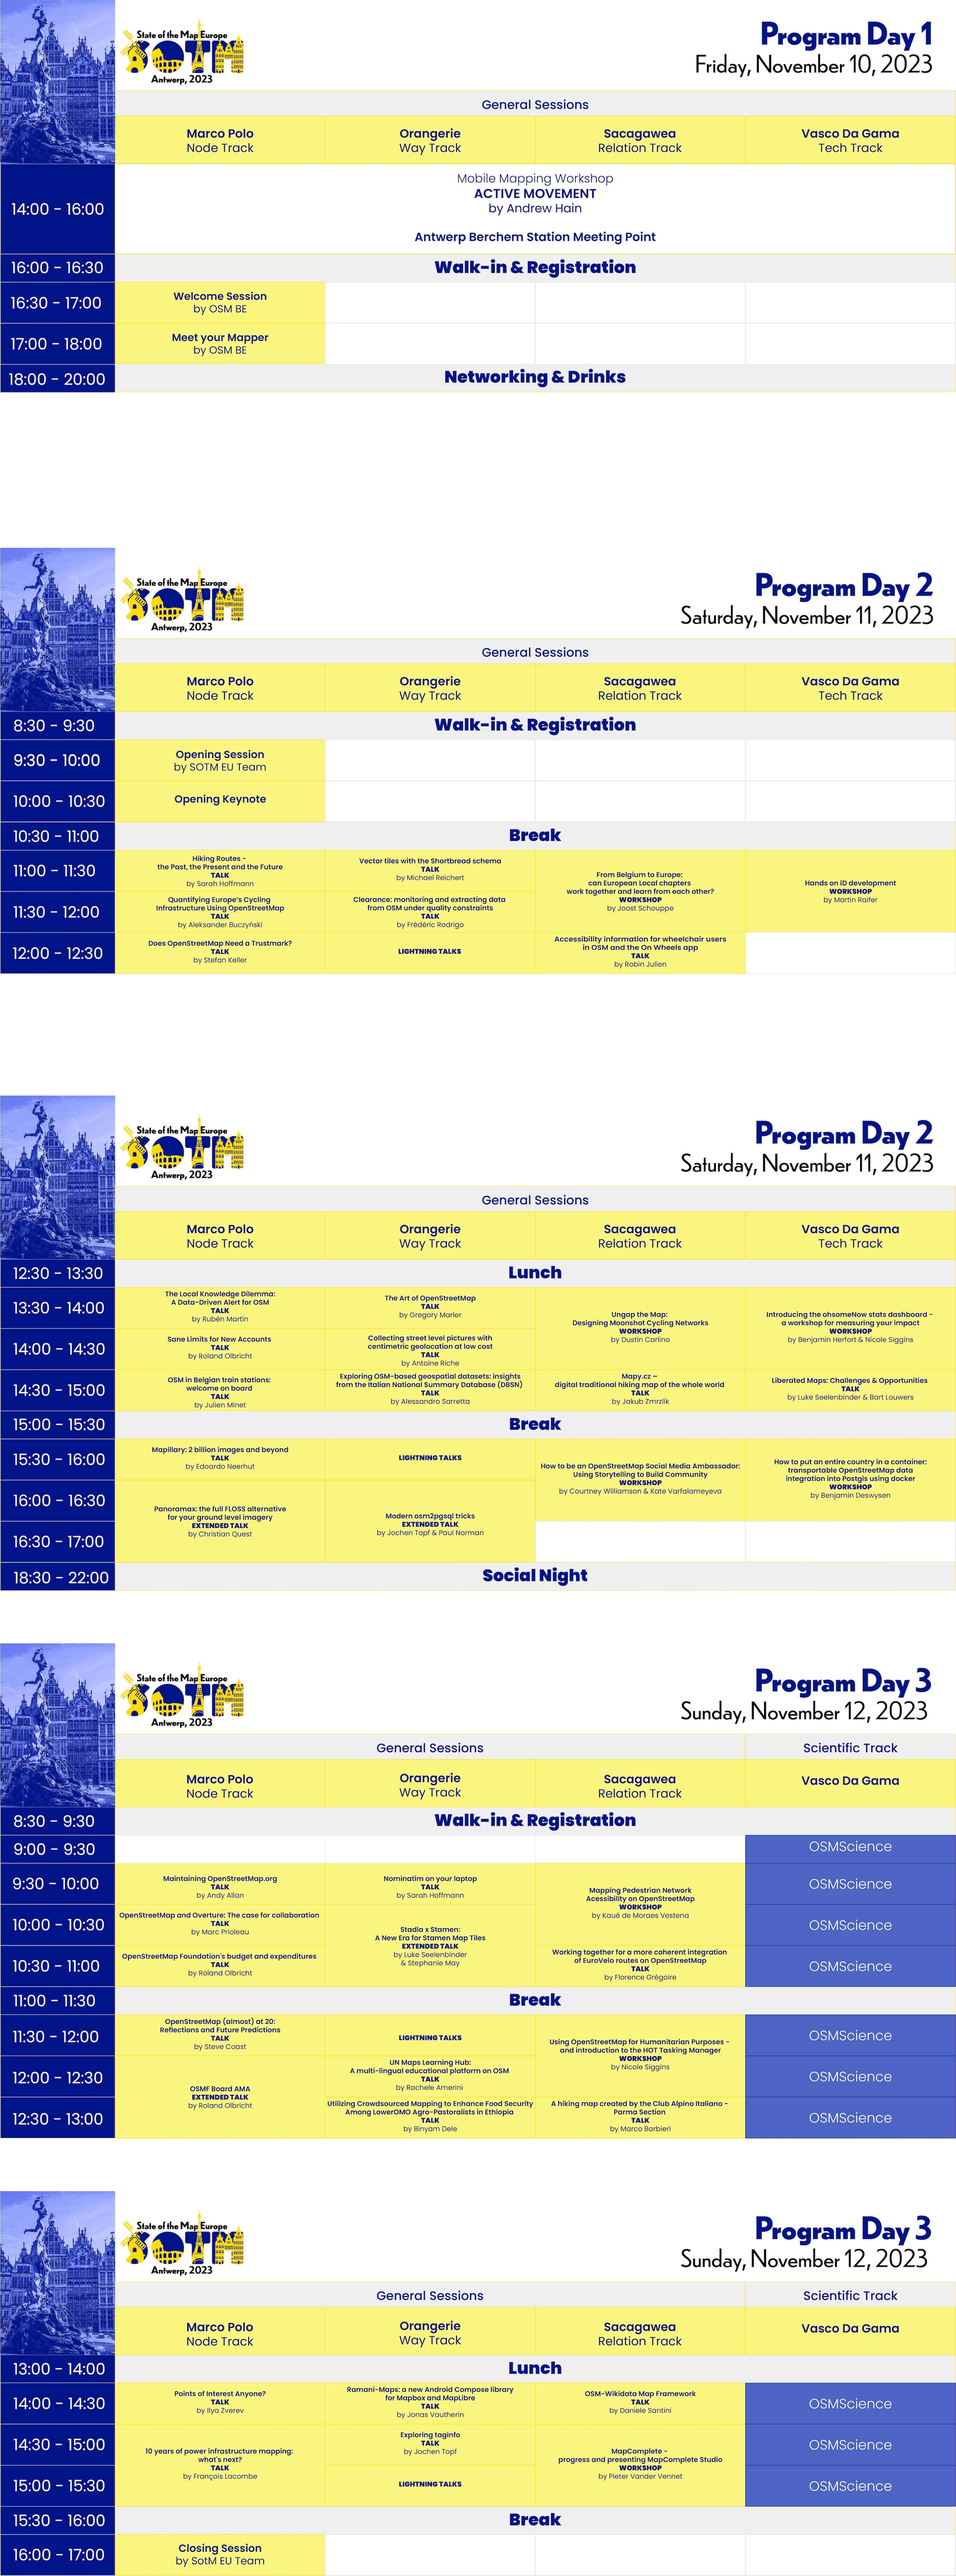
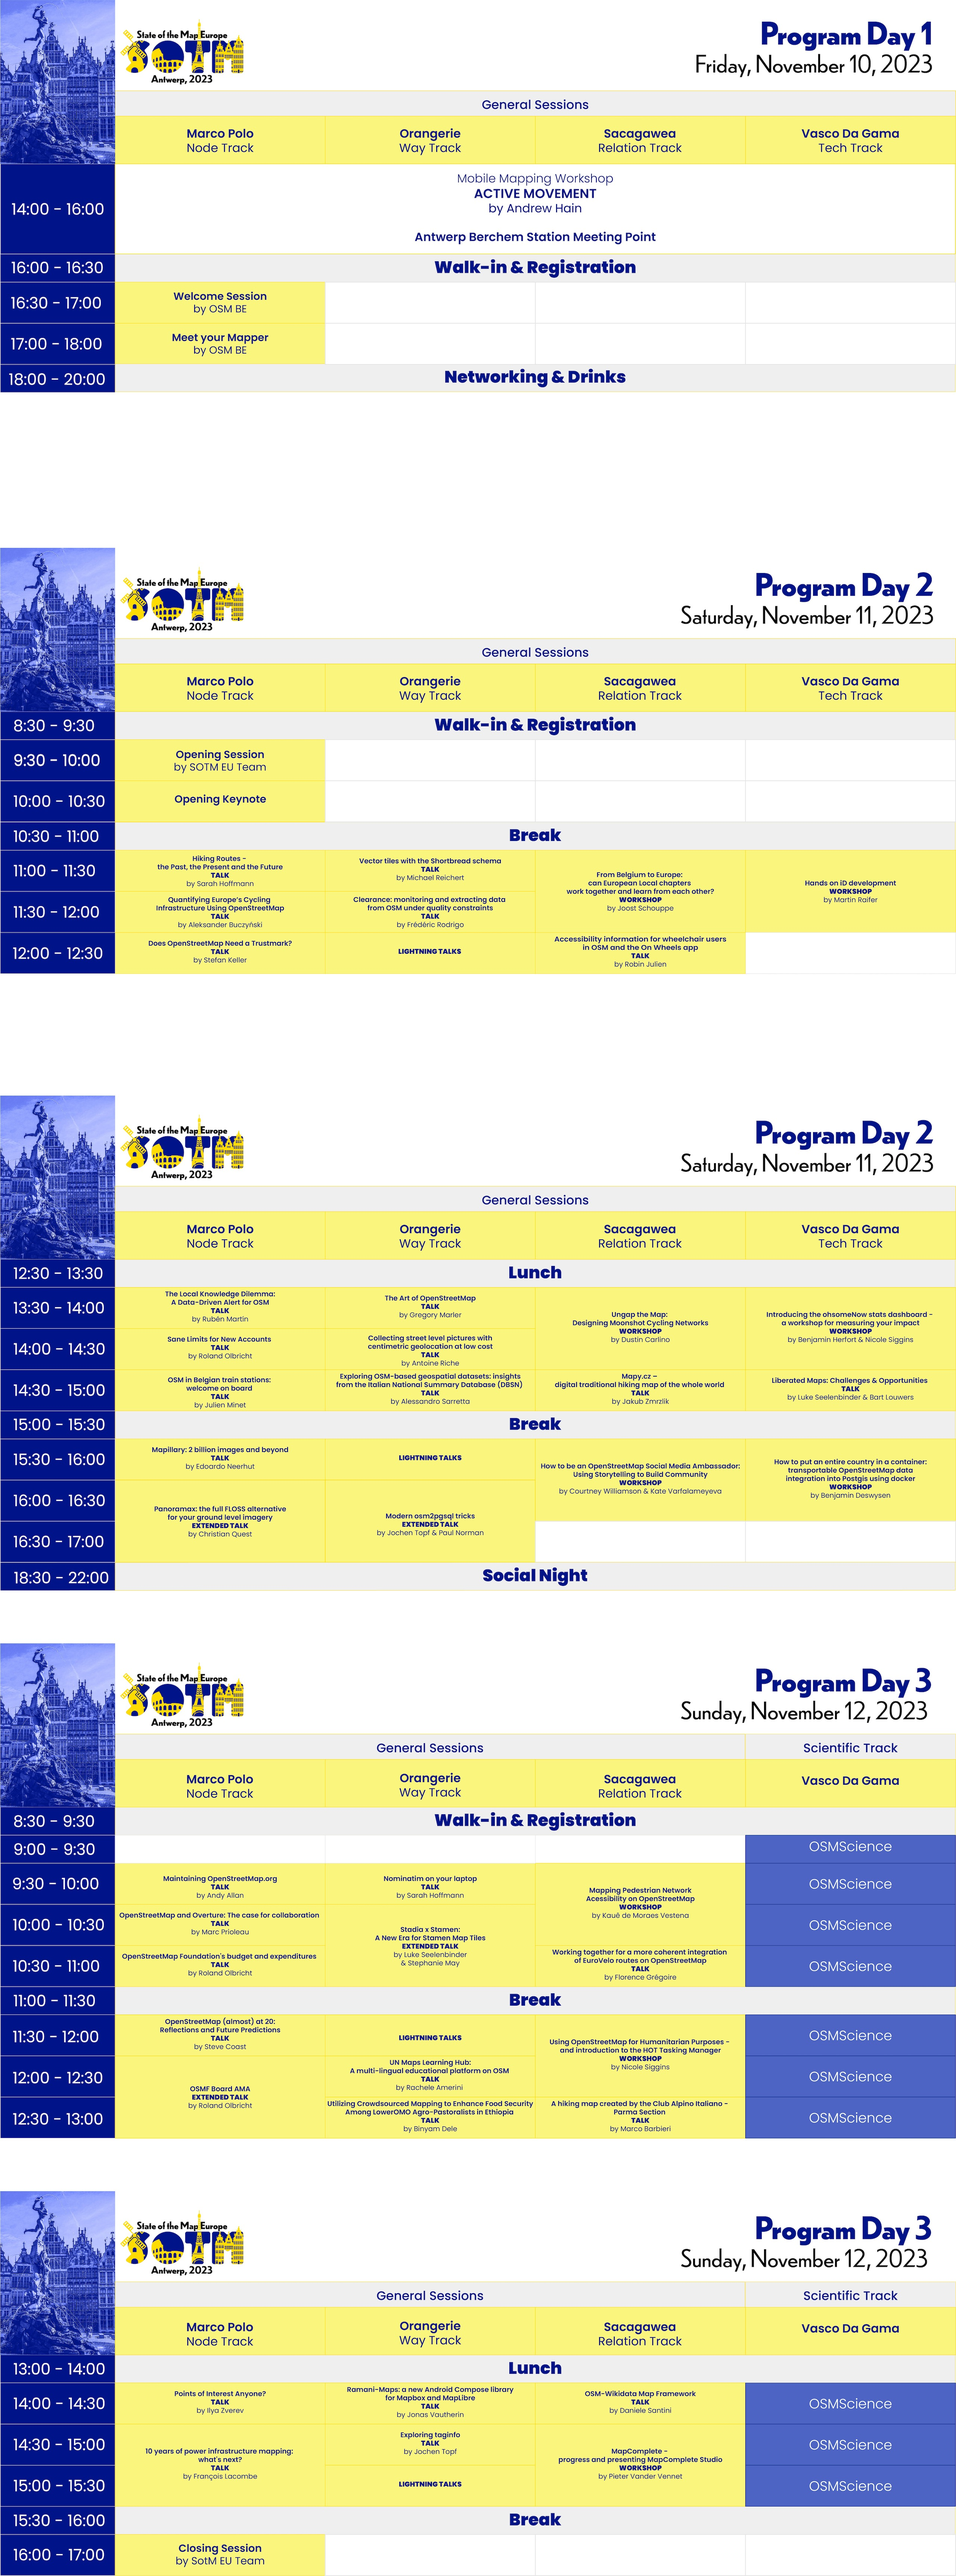
Add uncompressed image and remove obsolete parts

diff --git a/src/components/Schedule.jsx b/src/components/Schedule.jsx
@@ -218,25 +218,16 @@ export function Schedule({ id }) {
   return (
     <section id={id} aria-label="Schedule" className="py-20 sm:py-32">
       <Container className="relative">
-        <h2 className="mx-auto max-w-2xl text-center font-dunbar text-4xl font-medium tracking-tighter text-sotm-blue sm:text-5xl">
-          Preliminary Schedule
-        </h2>
-        <p className="mt-4 font-poppins text-2xl tracking-tight text-sotm-blue">
+        <p className="font-poppins text-2xl tracking-tight text-sotm-blue">
           The conference will be packed with great talks, workshops and
           opportunities to meet and talk to the OpenStreetMap community.
         </p>
+        <Image
+          src={programImage}
+          alt="SotM EU 2023 Program"
+          className="pt-20 sm:pt-32"
+        />
       </Container>
-      <div className="relative mt-14 sm:mt-24">
-        <Container className="relative">
-          <ScheduleTabbed />
-          <ScheduleStatic />
-          <Image
-            src={programImage}
-            alt="SotM EU 2023 Program"
-            className="pt-20 sm:pt-32"
-          />
-        </Container>
-      </div>
     </section>
   )
 }
